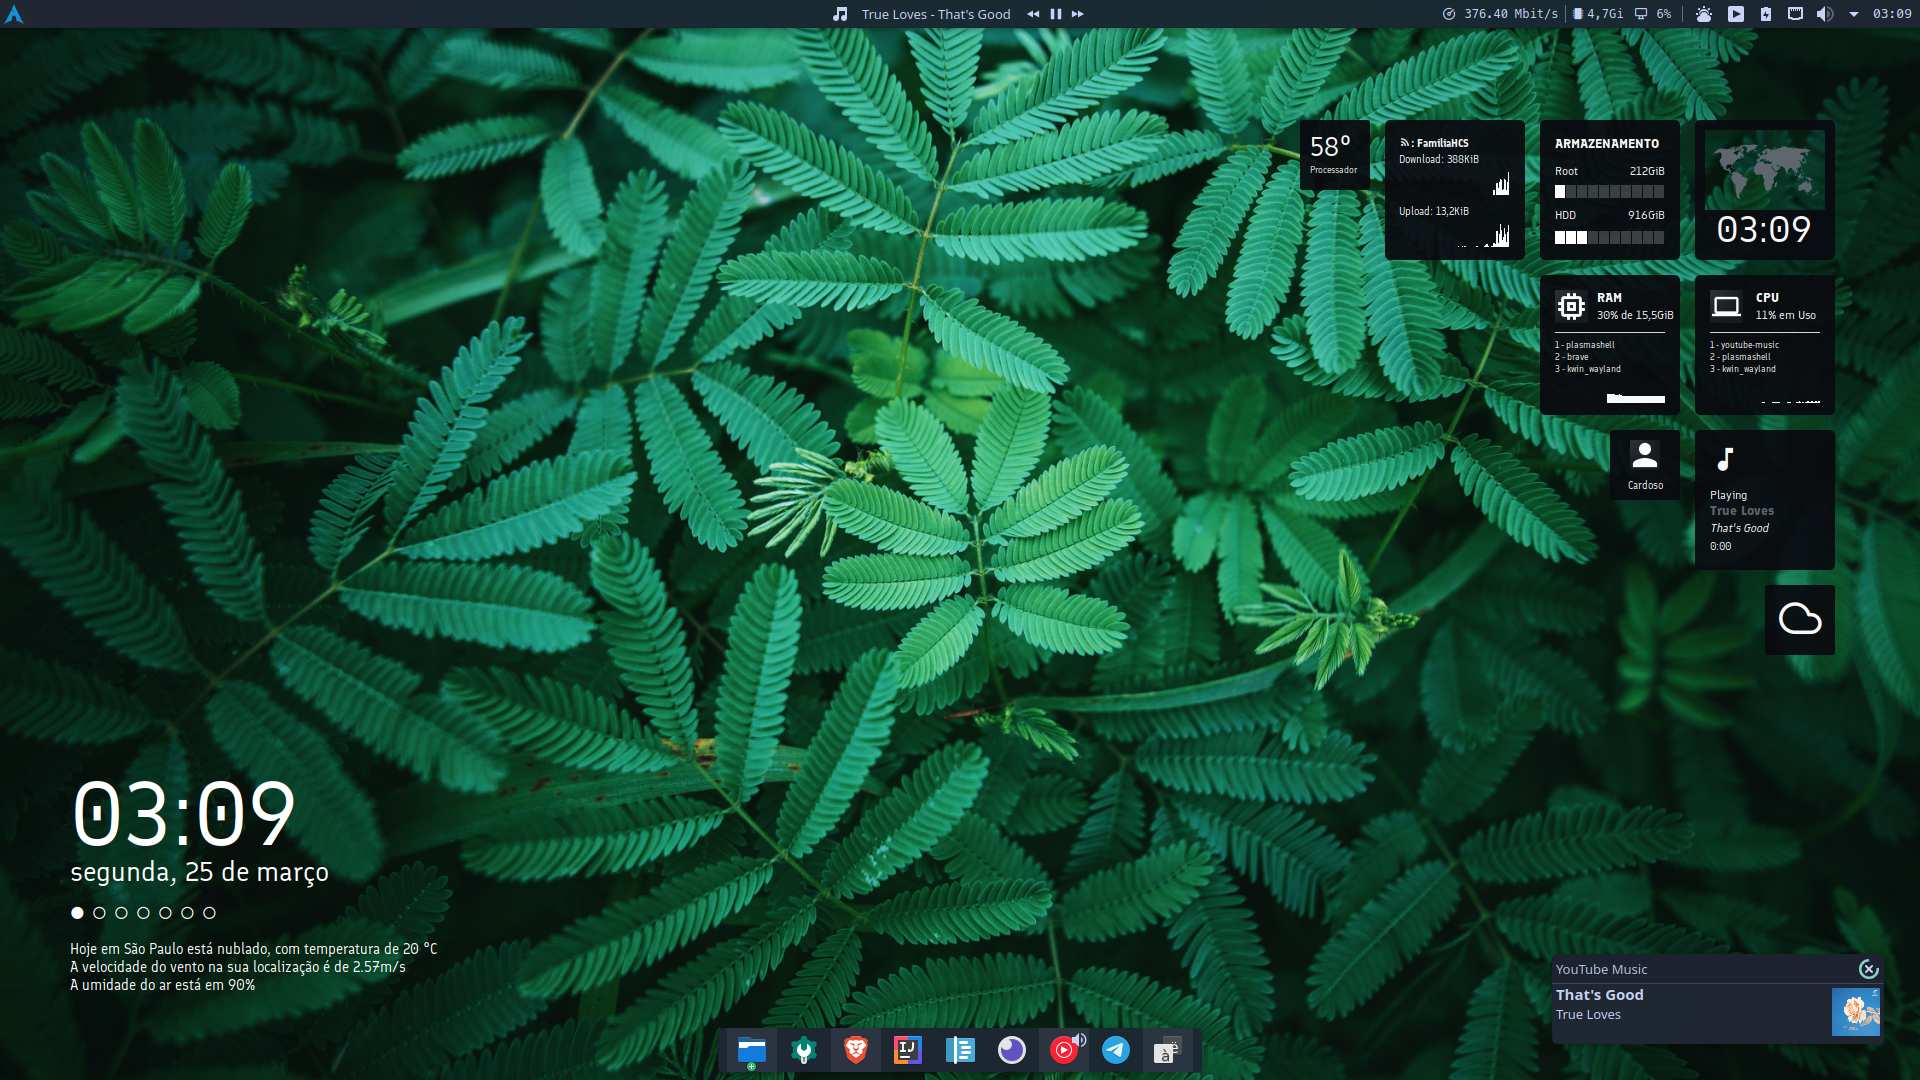
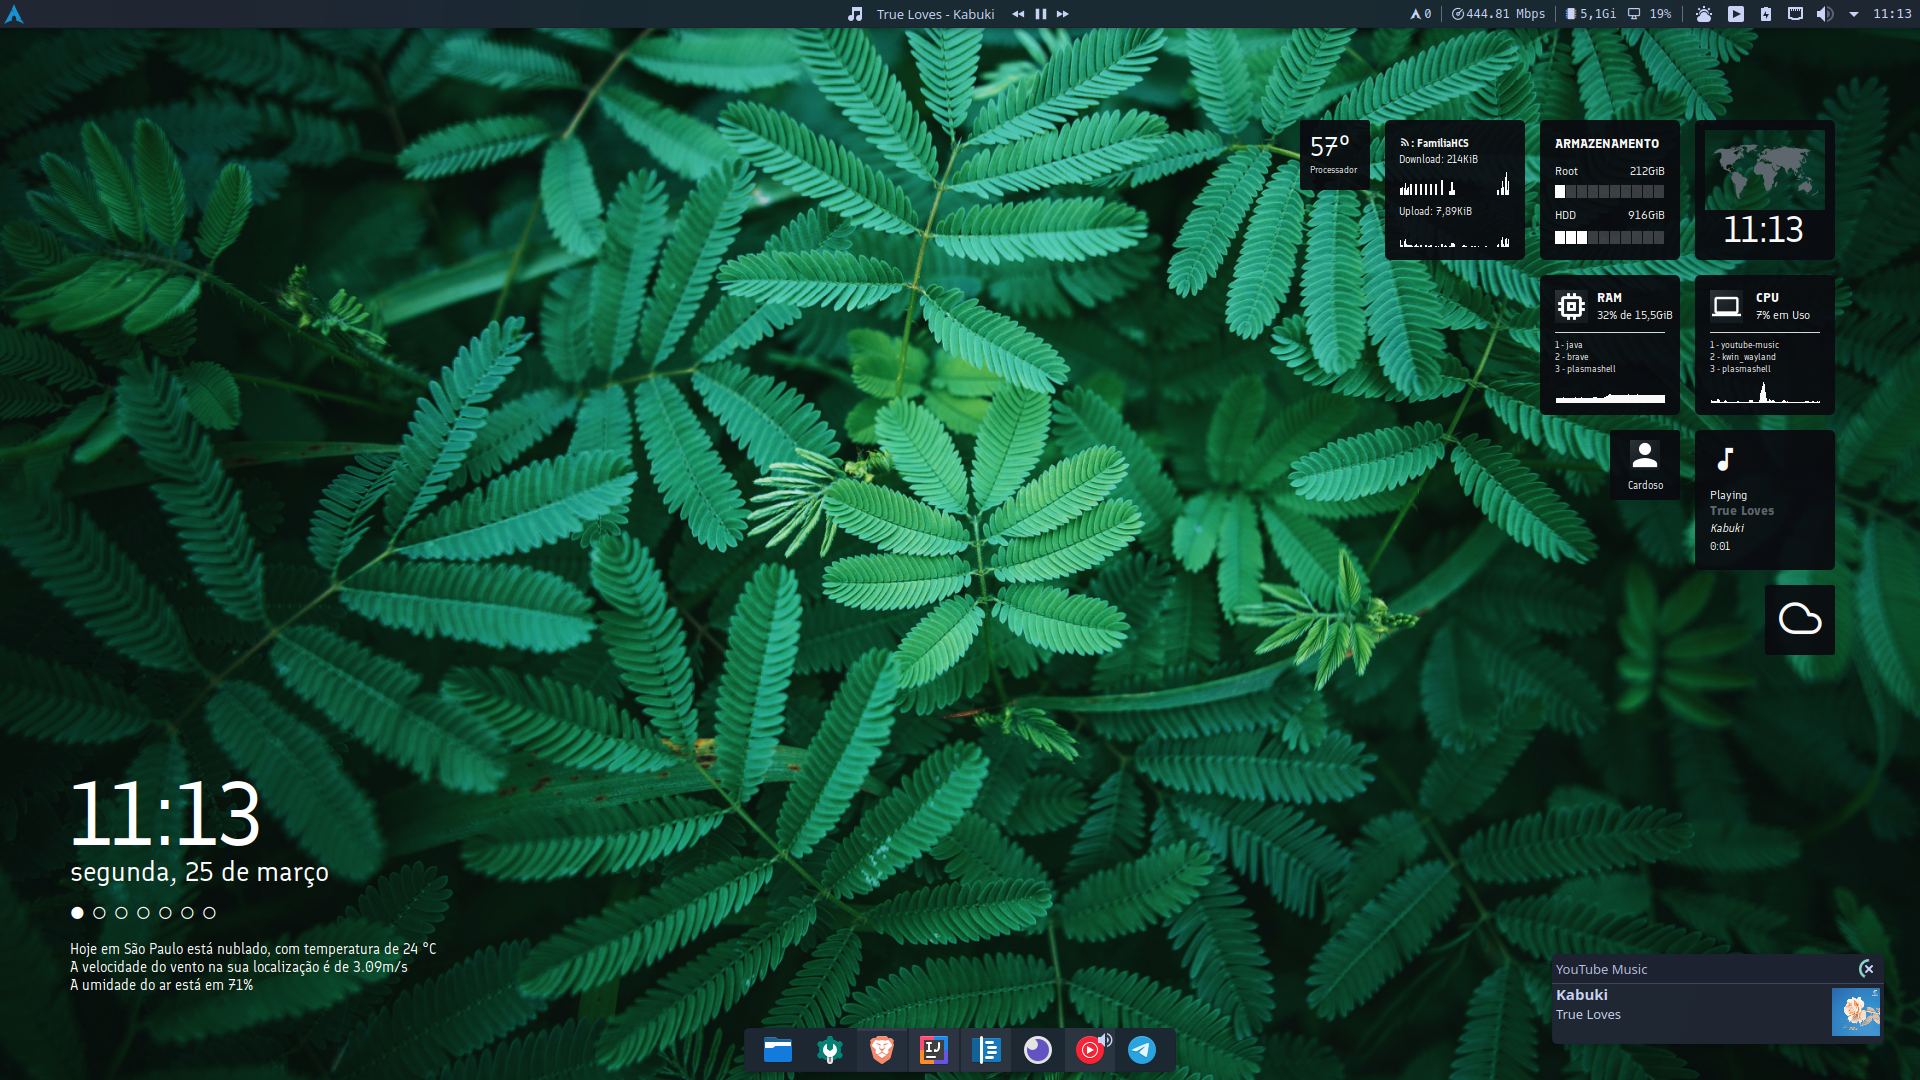
Atualização do README e ajuste no zshrc

diff --git a/README.md b/README.md
@@ -14,6 +14,8 @@
 
 ### Comandos do plasmoid Command Output
 
-* Velocidade Internet: `echo "  $(speedtest --no-upload --simple | awk 'NR==2{print$2" "$3}')"`
+* Atualizações do Arch Linux: `echo " $(checkupdates | wc -l)"`
+    ** Comando de click: `updates=$(checkupdates | wc -l); if [ "$updates" -gt 0 ]; then konsole -e /bin/bash -c "yay -Syu --devel --timeupdate; read -p 'Press Enter to exit...' "; else echo " 0 "; fi`
+* Velocidade Internet: `echo " $(speedtest --secure --no-upload --simple | awk 'NR==2{print $2" Mbps"}')"`
 * Uso de memória: `free -h | awk '/Mem/{printf(" %s "), $3}'`
 * Uso de CPU: `echo "  "$[100-$(vmstat 1 2|tail -1|awk '{print $15}')]"%"`
